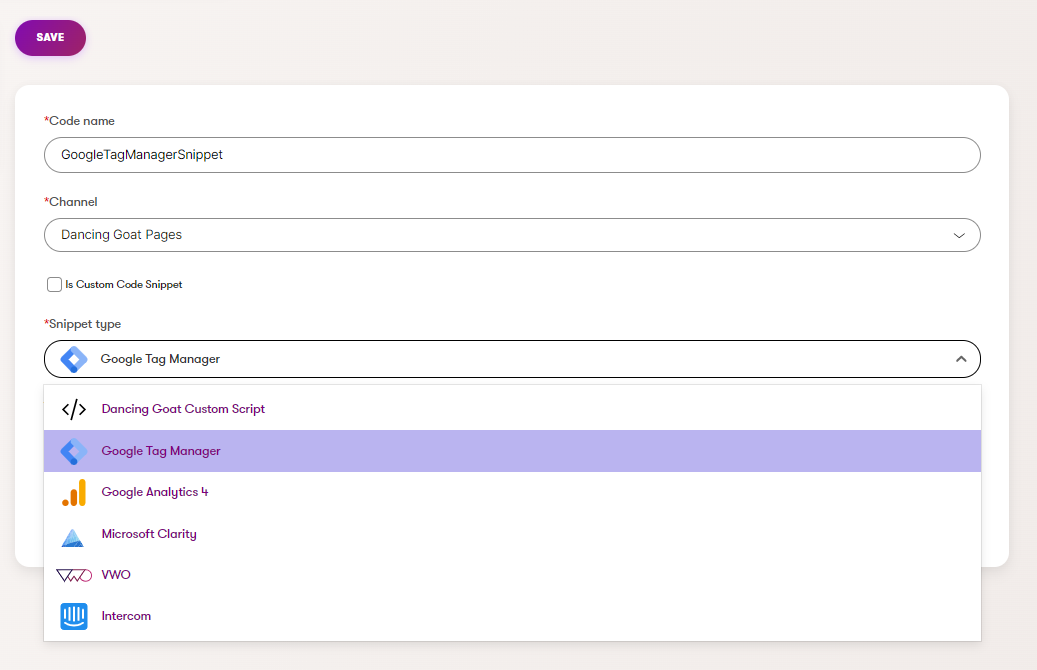
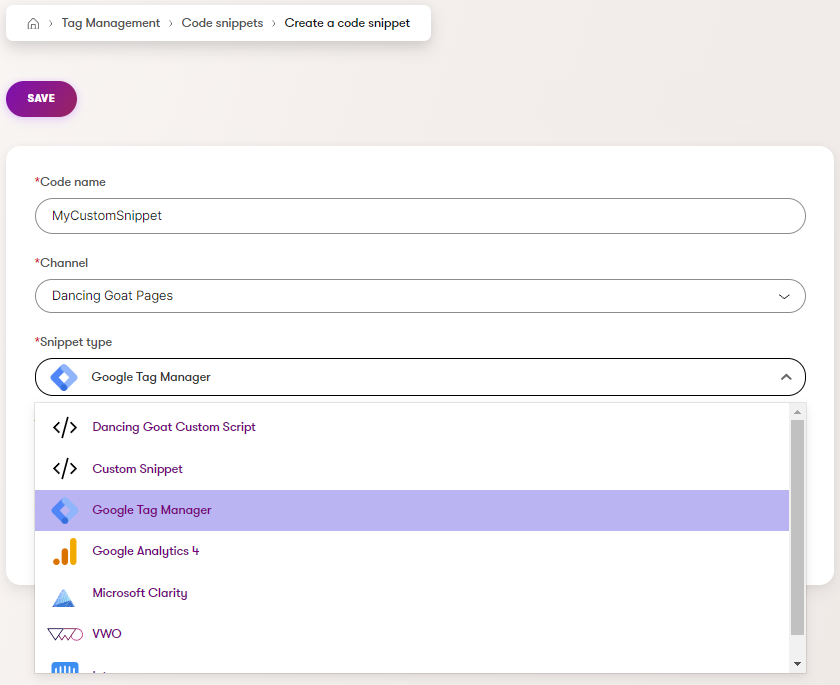
feat(TagManager): remove checkbox for code snippet type

Changed region(s): [[0.031, 0.209, 0.9905, 0.9851], [0.0, 0.1194, 0.2167, 0.4478], [0.0, 0.0299, 0.4952, 0.0896]]

diff --git a/src/Kentico.Xperience.TagManager/Admin/Client/src/templates/TagManagerSnippetTypeDropdownFormComponent.tsx b/src/Kentico.Xperience.TagManager/Admin/Client/src/templates/TagManagerSnippetTypeDropdownFormComponent.tsx
@@ -1,9 +1,9 @@
 import { type FormComponentProps } from '@kentico/xperience-admin-base';
 import Parse from 'html-react-parser';
 import React from 'react';
-import Select, { components, type StylesConfig, type OptionProps, type SingleValueProps, type SingleValue, type ActionMeta} from 'react-select'
+import Select, { components, type ActionMeta, type OptionProps, type SingleValue, type SingleValueProps, type StylesConfig } from 'react-select';
 
-export interface TagManagerSnippet {
+export interface TagManagerSnippetDto {
     displayName: string;
     typeName: string;
     icon: string;
@@ -11,8 +11,8 @@ export interface TagManagerSnippet {
 
 export interface TagManagerSnippetTypeDropdownComponentClientProperties
     extends FormComponentProps {
-    value: TagManagerSnippet;
-    snippetTypes: TagManagerSnippet[];
+    value: string;
+    snippetTypes: TagManagerSnippetDto[];
 }
 
 interface OptionType {
@@ -58,25 +58,23 @@ export const TagManagerSnippetTypeDropdownFormComponent = (
         <components.Option {...props}>
             <div style={badgeStyle} className="css-1dimb5e-singleValue">
                 {props.data.icon !== '' && props.data.icon !== null ? Parse(props.data.icon) : ''}
-                    {props.data.label}
+                {props.data.label}
             </div>
         </components.Option>
     );
 
     const Save = (newValue: SingleValue<OptionType>, action: ActionMeta<OptionType>): void => {
-        if (action.action === 'select-option')
-        {
-            const tagManagerSnippet: TagManagerSnippet =
+        if (action.action === 'select-option') {
+            const tagManagerSnippet: TagManagerSnippetDto =
             {
                 icon: newValue?.icon ?? '',
                 displayName: newValue?.label ?? '',
                 typeName: newValue?.value ?? ''
             };
 
-            props.value = tagManagerSnippet;
+            props.value = tagManagerSnippet.typeName;
 
-            if (props.onChange != null)
-            {
+            if (props.onChange !== undefined) {
                 props.onChange(props.value);
             }
         }
@@ -119,16 +117,16 @@ export const TagManagerSnippetTypeDropdownFormComponent = (
 
     return (
         <div className="container___zbhlz">
-                <div className="label-wrapper___AcszK">
-                    <div>
-                        <label className="label___WET63" aria-disabled="false">
-                            <span className="required___yY_P2">*</span>
-                            <span>Snippet type</span>
-                        </label>
-                    </div>
+            <div className="label-wrapper___AcszK">
+                <div>
+                    <label className="label___WET63" aria-disabled="false">
+                        <span className="required___yY_P2">*</span>
+                        <span>Snippet type</span>
+                    </label>
                 </div>
+            </div>
             <Select<OptionType, false>
-                defaultValue={options.find(option => option.value === props.value.typeName)}
+                defaultValue={options.find(option => option.value === props.value)}
                 options={options}
                 styles={customStyle}
                 components={{ SingleValue: CustomSingleValue, Option: CustomOption }}

diff --git a/src/Kentico.Xperience.TagManager/wwwroot/scripts/ktc-tagmanager.js b/src/Kentico.Xperience.TagManager/wwwroot/scripts/ktc-tagmanager.js
@@ -1,0 +1,1 @@
+var e,t;const n="HeadTop",o="HeadBottom",a="BodyTop",c="BodyBottom";null!==(t=(e=window).xperience)&&void 0!==t||(e.xperience={}),window.xperience.tagManager={updateCodeSnippets:async function(){const e=[...document.querySelectorAll("[data-snippet-id]")],t=new Set(e.map((e=>parseInt(e.dataset.snippetId)))),d=await async function(){const e=await fetch("".concat("/kentico.tagmanager","/GetConsentedTags"),{method:"get"});if(!e.ok)throw new Error(e.statusText);const t=await e.json();return t}();function r(e,t){const n=document.createElement("template");n.innerHTML=e;for(let e of[...n.content.children])if("SCRIPT"===e.nodeName){t(i(e))}else t(e)}function i(e){const t=document.createElement("script");for(let n of[...e.attributes])t.setAttribute(n.name,n.value);return t.text=e.text,t}!function(){const e=document.createElement("template");d.forEach((t=>e.append(t.code)));var i=d.filter((e=>!t.has(e.id)));if(i)for(let e of i){let t;switch(e.location){case n:t=e=>document.head.prepend(e);break;case o:t=e=>document.head.append(e);break;case a:t=e=>document.body.prepend(e);break;case c:t=e=>document.body.append(e)}r(e.code,(e=>t(e)))}}(),function(){for(let t of e.filter((e=>!d.some((t=>t.id===parseInt(e.dataset.snippetId))))))t.remove()}()}};

diff --git a/src/Kentico.Xperience.TagManager/Admin/Components/TagManagerSnippetTypeDropdownComponent.cs b/src/Kentico.Xperience.TagManager/Admin/Components/TagManagerSnippetTypeDropdownComponent.cs
@@ -16,9 +16,9 @@ public class TagManagerSnippetTypeDropdownComponentProperties : FormComponentPro
 }
 #pragma warning restore
 
-public class TagManagerSnippetTypeDropdownComponentClientProperties : FormComponentClientProperties<TagManagerSnippet>
+public class TagManagerSnippetTypeDropdownComponentClientProperties : FormComponentClientProperties<string>
 {
-    public IEnumerable<TagManagerSnippet>? SnippetTypes { get; set; }
+    public IEnumerable<TagManagerSnippetDto>? SnippetTypes { get; set; }
 }
 
 public sealed class TagManagerSnippetTypeDropdownComponentAttribute : FormComponentAttribute
@@ -26,22 +26,21 @@ public sealed class TagManagerSnippetTypeDropdownComponentAttribute : FormCompon
 }
 
 [ComponentAttribute(typeof(TagManagerSnippetTypeDropdownComponentAttribute))]
-public class TagManagerSnippetTypeDropdownComponent : FormComponent<TagManagerSnippetTypeDropdownComponentProperties, TagManagerSnippetTypeDropdownComponentClientProperties, TagManagerSnippet>
+public class TagManagerSnippetTypeDropdownComponent : FormComponent<TagManagerSnippetTypeDropdownComponentProperties, TagManagerSnippetTypeDropdownComponentClientProperties, string>
 {
     public const string IDENTIFIER = "kentico.xperience-integrations-tag-manager.tag-manager-snippet-type-dropdown";
     public override string ClientComponentName => "@kentico/xperience-integrations-tagmanager/TagManagerSnippetTypeDropdown";
 
-    public override TagManagerSnippet GetValue() => Value ?? new();
-    public override void SetValue(TagManagerSnippet value) => Value = value;
-    internal TagManagerSnippet? Value { get; set; }
+    public override string GetValue() => Value ?? "";
+    public override void SetValue(string value) => Value = value;
+    internal string? Value { get; set; }
     protected override async Task ConfigureClientProperties(TagManagerSnippetTypeDropdownComponentClientProperties properties)
     {
-        properties.Value = Value ?? new();
+        properties.Value = Value ?? "";
 
         properties.SnippetTypes = SnippetFactoryStore.GetRegisteredSnippetFactories()
             .Select(x => x.CreateCodeSnippetSettings())
-            .Where(x => x.TagTypeName != CustomSnippetFactory.TAG_TYPE_NAME)
-            .Select(x => new TagManagerSnippet
+            .Select(x => new TagManagerSnippetDto
             {
                 DisplayName = x.TagDisplayName,
                 TypeName = x.TagTypeName,
@@ -52,22 +51,10 @@ public class TagManagerSnippetTypeDropdownComponent : FormComponent<TagManagerSn
     }
 }
 
-public class TagManagerSnippet
+public class TagManagerSnippetDto
 {
     public string DisplayName { get; set; } = "";
     public string TypeName { get; set; } = "";
     public string? Icon { get; set; }
-
-    public static TagManagerSnippet FromSnippetStore(string typeName)
-    {
-        var factorySettings = SnippetFactoryStore.TryGetSnippetFactory(typeName)?.CreateCodeSnippetSettings();
-
-        return new TagManagerSnippet
-        {
-            DisplayName = factorySettings?.TagDisplayName ?? "",
-            TypeName = factorySettings?.TagTypeName ?? "",
-            Icon = factorySettings?.TagSVGIconCode
-        };
-    }
 }
 

diff --git a/src/Kentico.Xperience.TagManager/Admin/CodeSnippetConfigurationModel.cs b/src/Kentico.Xperience.TagManager/Admin/CodeSnippetConfigurationModel.cs
@@ -18,24 +18,20 @@ internal class CodeSnippetConfigurationModel
     [ObjectIdSelectorComponent(objectType: ChannelInfo.OBJECT_TYPE, Label = "Channel", Order = 1, WhereConditionProviderType = typeof(ChannelSelectorWhereConditionProvider))]
     public IEnumerable<int> ChannelIDs { get; set; } = [];
 
-    [CheckBoxComponent(Order = 2, Label = "Is Custom Code Snippet")]
-    public bool IsCustomCode { get; set; }
-
     [RequiredValidationRule]
     [TagManagerSnippetTypeDropdownComponent(Label = "Code snippet type", Order = 3)]
-    [VisibleIfFalse(nameof(IsCustomCode))]
-    public TagManagerSnippet? SnippetType { get; set; }
+    public string? SnippetType { get; set; }
 
     [CodeEditorComponent(Label = "Code", Order = 4)]
-    [VisibleIfTrue(nameof(IsCustomCode))]
+    [VisibleIfEqualTo(nameof(SnippetType), CustomSnippetFactory.TAG_TYPE_NAME)]
     public string? Code { get; set; }
 
     [RadioGroupComponent(Label = "Code snippet location", Order = 5, Options = CodeSnippetLocationsExtensions.FormComponentOptions)]
-    [VisibleIfTrue(nameof(IsCustomCode))]
+    [VisibleIfEqualTo(nameof(SnippetType), CustomSnippetFactory.TAG_TYPE_NAME)]
     public string? Location { get; set; }
 
     [TextInputComponent(Label = "Tag ID", Order = 4)]
-    [VisibleIfFalse(nameof(IsCustomCode))]
+    [VisibleIfNotEqualTo(nameof(SnippetType), CustomSnippetFactory.TAG_TYPE_NAME)]
     public string? TagIdentifier { get; set; }
 
     [ObjectIdSelectorComponent(objectType: ConsentInfo.OBJECT_TYPE, Label = "Consent", Order = 6, Placeholder = "No consent needed")]
@@ -46,15 +42,10 @@ internal class CodeSnippetConfigurationModel
         info.ChannelCodeSnippetItemChannelId = ChannelIDs.FirstOrDefault();
         info.ChannelCodeSnippetItemConsentId = ConsentIDs.FirstOrDefault();
         info.ChannelCodeSnippetItemLocation = Location;
-        info.ChannelCodeSnippetItemType = SnippetType?.TypeName;
+        info.ChannelCodeSnippetItemType = SnippetType;
         info.ChannelCodeSnippetItemName = CodeName;
         info.ChannelCodeSnippetItemIdentifier = TagIdentifier;
         info.ChannelCodeSnippetItemCode = Code;
-
-        if (IsCustomCode)
-        {
-            info.ChannelCodeSnippetItemType = CustomSnippetFactory.TAG_TYPE_NAME;
-        }
     }
 }
 

diff --git a/src/Kentico.Xperience.TagManager/Admin/UIPages/CodeSnippetEditPage.cs b/src/Kentico.Xperience.TagManager/Admin/UIPages/CodeSnippetEditPage.cs
@@ -2,8 +2,6 @@
 using Kentico.Xperience.Admin.Base;
 using Kentico.Xperience.Admin.Base.Forms;
 using Kentico.Xperience.TagManager.Admin;
-using Kentico.Xperience.TagManager.Admin.Components;
-using Kentico.Xperience.TagManager.Snippets;
 using IFormItemCollectionProvider = Kentico.Xperience.Admin.Base.Forms.Internal.IFormItemCollectionProvider;
 
 [assembly: UIPage(
@@ -41,11 +39,10 @@ internal class CodeSnippetEditPage : ModelEditPage<CodeSnippetConfigurationModel
                 ChannelIDs = [info.ChannelCodeSnippetItemChannelId],
                 CodeName = info.ChannelCodeSnippetItemName,
                 Code = info.ChannelCodeSnippetItemCode,
-                SnippetType = TagManagerSnippet.FromSnippetStore(info.ChannelCodeSnippetItemType),
+                SnippetType = info.ChannelCodeSnippetItemType,
                 ConsentIDs = info.ChannelCodeSnippetItemConsentId == 0 ? [] : [info.ChannelCodeSnippetItemConsentId],
                 TagIdentifier = info.ChannelCodeSnippetItemIdentifier,
                 Location = info.ChannelCodeSnippetItemLocation,
-                IsCustomCode = info.ChannelCodeSnippetItemType == CustomSnippetFactory.TAG_TYPE_NAME
             };
 
             return model;

diff --git a/docs/Contributing-Setup.md b/docs/Contributing-Setup.md
@@ -1,8 +1,5 @@
 # Contributing Setup
 
----This documents the steps a maintainer or developer would follow to work on the library in their development environment---
----Update the details for this project, replacing "repotemplate" and anything else that needs changed---
-
 ## Required Software
 
 The requirements to setup, develop, and build this project are listed below.
